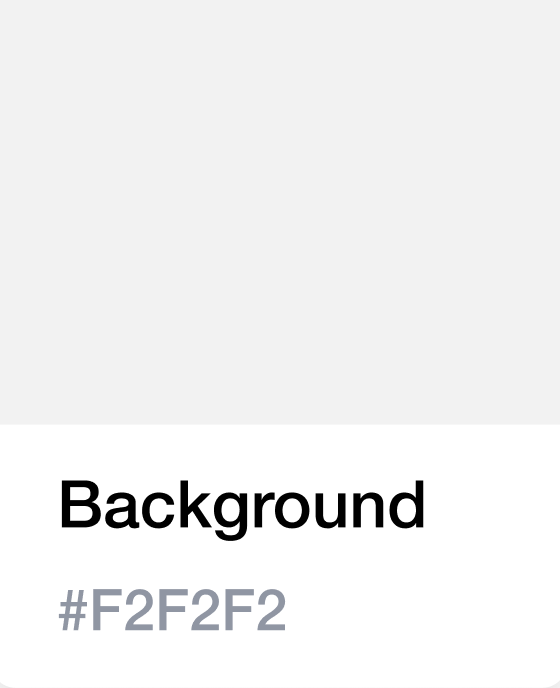
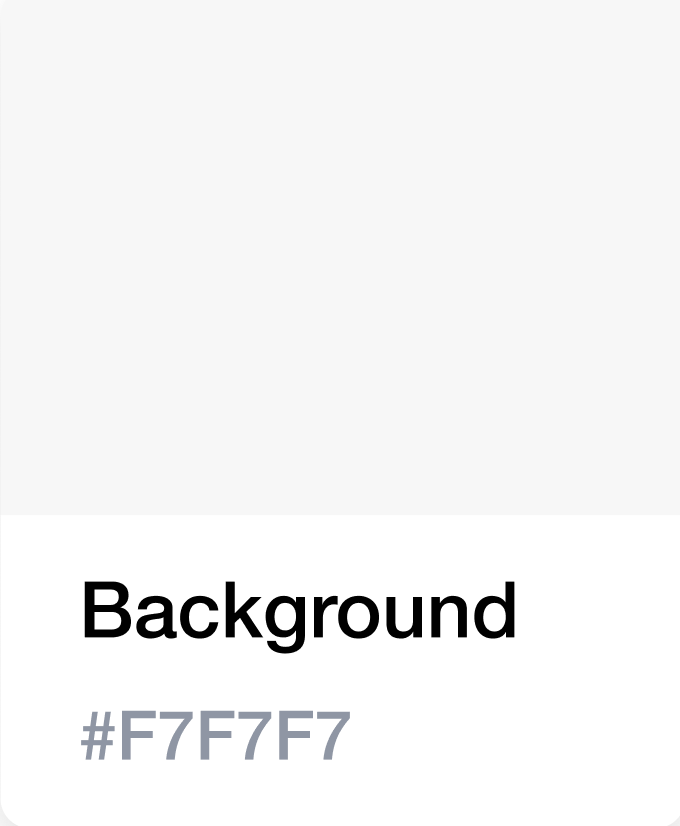
update

Changed region(s): [[0.0911, 0.6715, 0.7589, 0.7936], [0.0911, 0.8547, 0.5161, 0.9157]]

diff --git a/Tools/Dev/Design/README.md b/Tools/Dev/Design/README.md
@@ -30,22 +30,21 @@ The B.C. Government colour palette ensures all public facing government services
 #### Brand Colours
 
 <p float="left">
-    <img src="images/primary.png" alt="Primary Color" width="100" />
-    <img src="images/secondary.png" alt="Secondary Color" width="100" />
-    <img src="images/heading-text.png" alt="Heading Color" width="100" />
-    <img src="images/input-text.png" alt="Input Text Color" width="100" />
-    <img src="images/accent.png" alt="Accent Color" width="100" />
+    <img src="images/colours/primary.png" alt="Primary Color" width="100" />
+    <img src="images/colours/heading-text.png" alt="Heading Color" width="100" />
+    <img src="images/colours/input-text.png" alt="Input Text Color" width="100" />
+    <img src="images/colours/accent.png" alt="Accent Color" width="100" />
 </p>
 
 #### State Colours
 
 <p float="left">
-    <img src="images/success.png" alt="Success Color" width="100" />
-    <img src="images/error.png" alt="Error Color" width="100" />
-    <img src="images/links.png" alt="Link Color" width="100" />
-    <img src="images/background.png" alt="Background Color" width="100" />
-    <img src="images/navigation-bar.png" alt="Navigation bar Color" width="100" />
-    <img src="images/comment-icons.png" alt="Comment icons Color" width="100" />
+    <img src="images/colours/success.png" alt="Success Color" width="100" />
+    <img src="images/colours/error.png" alt="Error Color" width="100" />
+    <img src="images/colours/links.png" alt="Link Color" width="100" />
+    <img src="images/colours/background.png" alt="Background Color" width="100" />
+    <img src="images/colours/navigation-bar.png" alt="Navigation bar Color" width="100" />
+    <img src="images/colours/comment-icons.png" alt="Comment icons Color" width="100" />
 
 </p>
 
@@ -60,7 +59,7 @@ Accent #FCBA19
 Links #1A5A96
 Navigation Bar #38598A
 Secondary Text #606060
-Background #F2F2F2
+Background #F7F7F7
 ```
 
 Or color live examples
